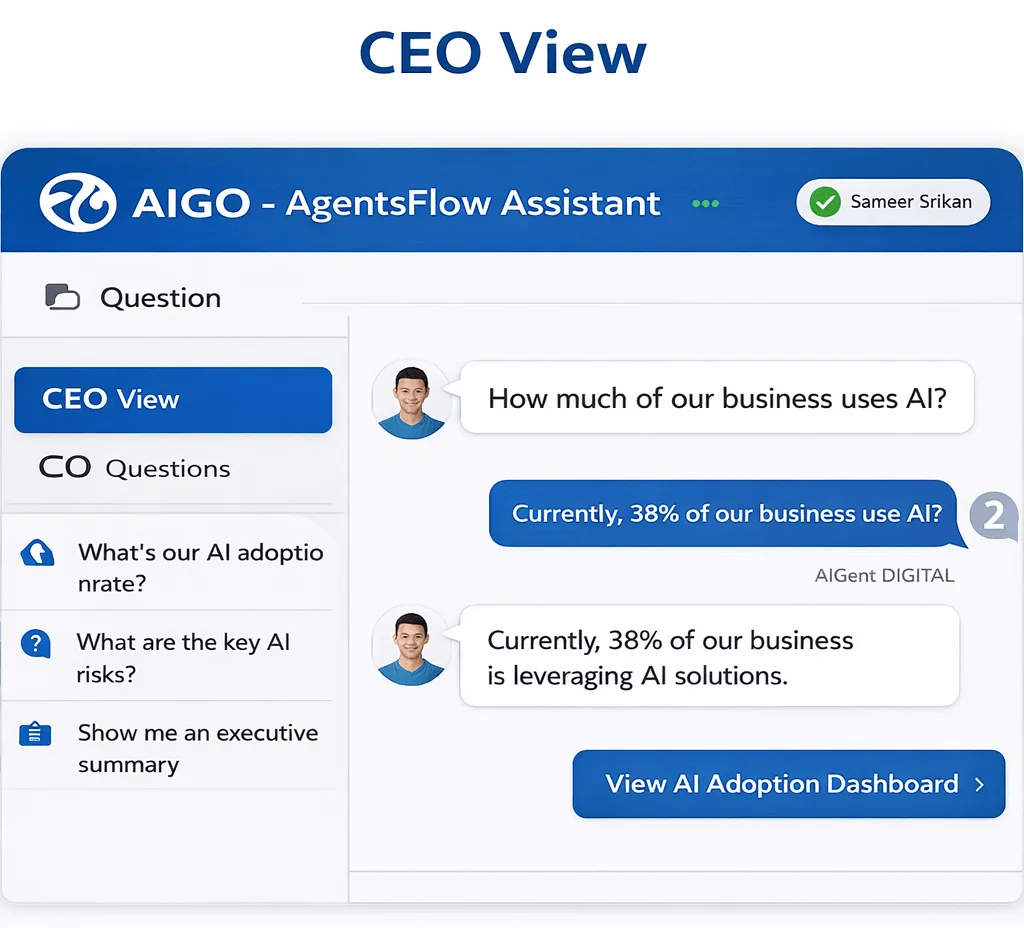
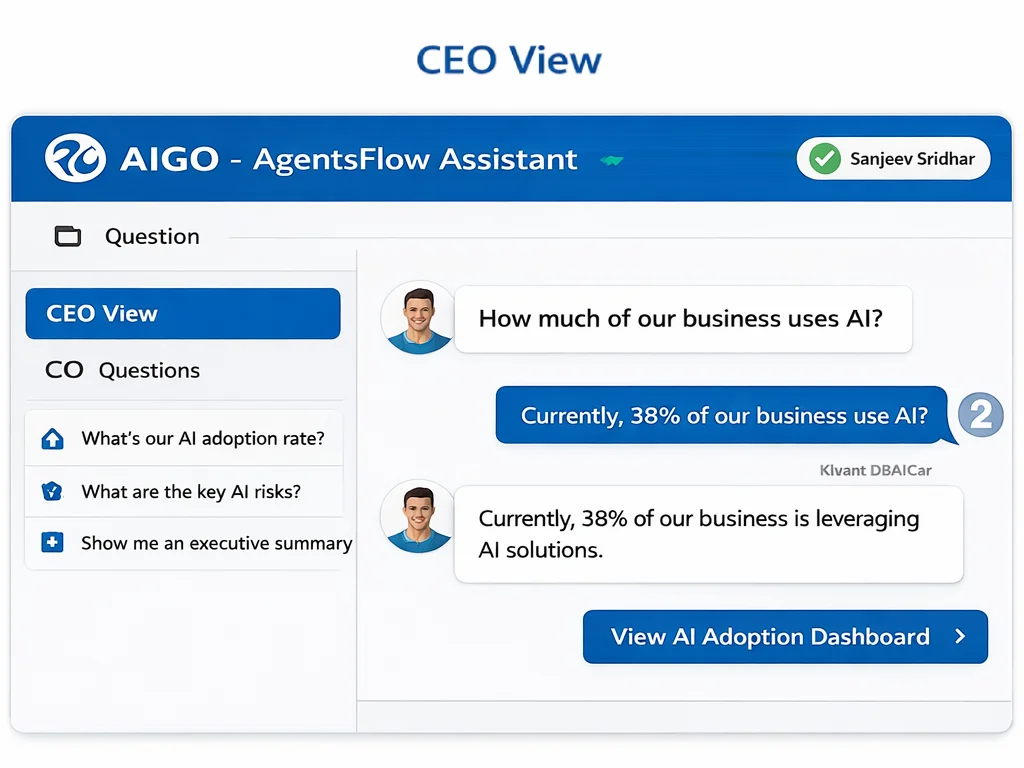
Image change

diff --git a/src/components/Tools/ai-go/data.ts b/src/components/Tools/ai-go/data.ts
@@ -89,6 +89,7 @@ export type PersonaSection = {
   readonly description: string;
   readonly bullets: readonly string[];
   readonly reversed: boolean;
+  readonly image: string;
 };
 
 export const personaSections: PersonaSection[] = [
@@ -101,6 +102,7 @@ export const personaSections: PersonaSection[] = [
       'Gain complete executive visibility into your AI landscape. Understand AI risk posture, ensure board-level compliance reporting, and drive strategic AI adoption with confidence.',
     bullets: ['Board-ready compliance dashboards', 'Enterprise risk posture at a glance', 'Strategic AI adoption metrics'],
     reversed: false,
+    image: 'https://iagentsflow.com/images/ceo-view.webp',
   },
   {
     slug: 'cios',
@@ -111,6 +113,7 @@ export const personaSections: PersonaSection[] = [
       'Consolidate AI governance across your technology stack. Manage agent sprawl, enforce architectural standards, and maintain operational excellence across all AI deployments.',
     bullets: ['Cross-platform agent management', 'Infrastructure compliance automation', 'Technology stack governance'],
     reversed: true,
+    image: 'https://iagentsflow.com/images/cio-view.webp',
   },
   {
     slug: 'clos',
@@ -121,6 +124,7 @@ export const personaSections: PersonaSection[] = [
       'Stay ahead of evolving AI regulations. Automated compliance mapping to EU AI Act, NIST AI RMF, ISO 42001, and more—with audit-ready documentation always at your fingertips.',
     bullets: ['Multi-framework compliance mapping', 'Automated regulatory reporting', 'Audit trail management'],
     reversed: false,
+    image: 'https://iagentsflow.com/images/clo-view.webp',
   },
   {
     slug: 'cpos',
@@ -131,6 +135,7 @@ export const personaSections: PersonaSection[] = [
       'AgentsFlow accelerates innovation with standardized lifecycles, guardrails, and approval workflows—so your product teams can move fast without breaking compliance.',
     bullets: ['Standardized agent lifecycles', 'Built-in approval workflows', 'Innovation velocity metrics'],
     reversed: true,
+    image: 'https://iagentsflow.com/images/cpo-view.webp',
   },
   {
     slug: 'dpos',
@@ -141,6 +146,7 @@ export const personaSections: PersonaSection[] = [
       'Ensure every AI agent respects data privacy. Track data flows, enforce consent requirements, and maintain GDPR/CCPA compliance across your entire AI ecosystem.',
     bullets: ['Data flow tracking & mapping', 'Consent management integration', 'Privacy impact assessments'],
     reversed: false,
+    image: 'https://iagentsflow.com/images/dpo-view.webp',
   },
 ];
 

diff --git a/src/components/Tools/ai-go/AiGoPersonaSections.tsx b/src/components/Tools/ai-go/AiGoPersonaSections.tsx
@@ -5,7 +5,7 @@ import { personaSections } from './data';
 export function AiGoPersonaSections() {
   return (
     <div id="stakeholders">
-      {personaSections.map(({ slug, title, icon: Icon, heading, description, bullets, reversed }) => (
+      {personaSections.map(({ slug, title, icon: Icon, heading, description, bullets, reversed, image }) => (
         <section
           key={slug}
           aria-labelledby={`persona-${slug}-heading`}
@@ -35,12 +35,16 @@ export function AiGoPersonaSections() {
                 </ul>
               </div>
               <aside
-                className={`glass-card flex min-h-[240px] flex-col items-center justify-center rounded-2xl p-6 sm:min-h-[280px] sm:p-8 ${reversed ? 'lg:order-1' : ''}`}
+                className={`glass-card relative min-h-[240px] overflow-hidden rounded-2xl sm:min-h-[280px] ${reversed ? 'lg:order-1' : ''}`}
                 aria-label={`${title} dashboard preview`}
               >
-                <Icon className="mb-4 h-14 w-14 text-primary/60 sm:h-16 sm:w-16" aria-hidden />
-                <p className="text-lg font-semibold gradient-text">{title} Dashboard</p>
-                <p className="mt-2 text-sm text-muted-foreground">Tailored governance view</p>
+                <img
+                  src={image}
+                  alt={`${title} governance dashboard preview`}
+                  className="h-full min-h-[240px] w-full object-cover object-center sm:min-h-[280px]"
+                  loading="lazy"
+                  decoding="async"
+                />
               </aside>
             </div>
           </div>

diff --git a/src/components/Tools/ai-go/AiGoControlPlane.tsx b/src/components/Tools/ai-go/AiGoControlPlane.tsx
@@ -1,4 +1,3 @@
-import Image from 'next/image';
 import { ShieldCheck } from 'lucide-react';
 import { controlPlaneBullets } from './data';
 
@@ -32,12 +31,13 @@ export function AiGoControlPlane() {
             aria-label="Control plane dashboard preview"
           >
             <div className="relative aspect-[16/15] w-full overflow-hidden rounded-2xl border border-border/50 bg-card/20 ring-1 ring-border/30">
-              <Image
-                src="/images/ai-go-image.webp"
+              {/* eslint-disable-next-line @next/next/no-img-element -- explicit native img for external asset */}
+              <img
+                src="https://iagentsflow.com/images/ai-go-image.webp"
                 alt="AI.GO control plane dashboard — agents, policies, compliance, and risk in one view"
-                fill
-                className="object-contain object-center"
-                sizes="(min-width: 1024px) min(50vw, 36rem) 100vw"
+                className="absolute inset-0 h-full w-full object-contain object-center"
+                loading="lazy"
+                decoding="async"
               />
             </div>
           </aside>
